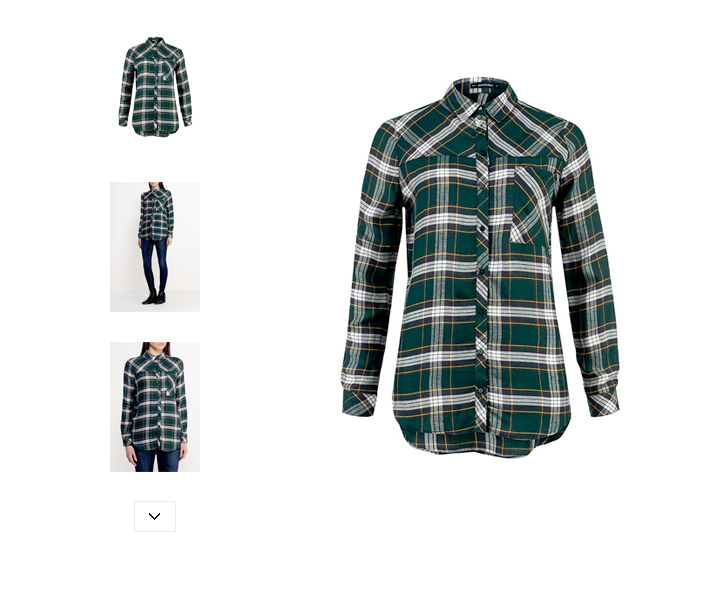
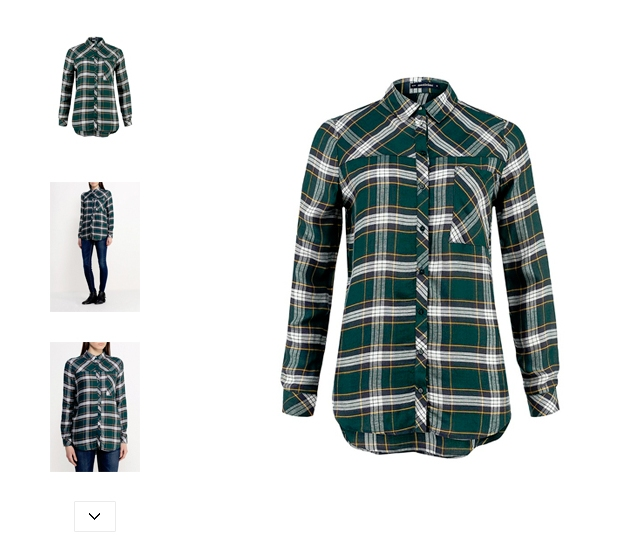
5

Changed region(s): [[0.4176, 0.1223, 0.8948, 0.8255], [0.0597, 0.3058, 0.2684, 0.8561], [0.0895, 0.0612, 0.2684, 0.2446]]

diff --git a/less/main.less b/less/main.less
@@ -17,20 +17,17 @@ body {
 
 @import "blocks/layout";
 
-.wrapper {
-  background: #ffffff;
-
-}
-
 .carousel {
-  width: 749px;
-  background: url(..//images/image1_01.jpg);
+  width: 50%;
+  height: auto;
+  background: url(..//images/image1_01.jpg) no-repeat;
 
 }
 
 .product {
   display: flex;
   flex-direction: row;
+  width: 100%;
 
 }
 
@@ -62,7 +59,7 @@ body {
 .description {
   // height: 455px;
   margin-top: 78px;
-  width: 500px;
+  width: 50%;
   display: flex;
   flex-direction: column;
 
@@ -96,6 +93,7 @@ nav {
   justify-content: space-between;
   width: 339px;
   margin: 0;
+  // margin-bottom: 50px;
 }
 
 .prices {
@@ -142,8 +140,9 @@ nav {
   font-size: 13px;
   flex-direction: column;
   align-items: flex-start;
-  width: 317px;
+  width: 339px;
   margin-top: 20px;
+  box-sizing: border-box;
 
   .stock {
     display: flex;
@@ -278,6 +277,14 @@ nav {
   font-size: 13px;
   color: #9a9b9b;
   padding-top: 8.5px;
+}
+
+.collapse {
+  display: none;
+}
+
+.collapse-content {
+  display: none;
 }
 
 
@@ -450,5 +457,113 @@ nav {
     background: url(..//images/collapse_arrow.png) no-repeat;
     width: 12px;
     height: 8px;
+  }
+}
+
+@media screen and(max-width: 1000px) and (min-width: 768px) {
+ 
+  .carousel {
+    background: url(..//images/carousel_1000.jpg) no-repeat;
+  }
+
+  .description {
+    width: 339px;
+  }
+
+  .buttons {
+    width: 339px;
+  }
+
+  .about {
+    width: 430px;
+  }
+}
+
+@media screen and(max-width: 768px) and (min-width: 320px) {
+
+  .carousel {
+    background: url(..//images/carousel_768.jpg) no-repeat;
+  } 
+
+  .description {
+    width: 37%;
+    margin-top: 30px;
+  }
+
+  nav {
+    display: flex;
+    flex-direction: row;
+    justify-content: space-between;
+    width: 100%;
+    flex-wrap: wrap;
+  }
+
+  .nav-link {
+    margin-right: 10px;
+  }
+
+  .nav-link-arrow {
+    margin-right: 10px;
+  }
+
+  .product_name {
+    margin-top: 25px;
+  }
+
+  .similar {
+    width: 100%;
+    flex-wrap: wrap;
+  }
+
+  .similar_products {
+    margin-left: 0;
+    margin-bottom: 15px;
+    
+  }
+
+  .prices {
+    flex-wrap: wrap;
+    width: 100%;
+    justify-content: start;
+  }
+
+  .price_with_promocode {
+    margin-left: 0;
+    margin-top: 10px;
+  }
+
+  .current_price {
+    margin-right: 150px;
+  }
+
+  .promocode {
+    margin-left: 5px;
+    margin-top: 10px;
+  }
+
+  .box {
+    width: 100%;
+    box-sizing: border-box;
+  }
+
+  .buttons {
+    margin-top: 30px;
+  }
+  .share {
+    display: none;
+  }
+
+  .about {
+    width: 100%;
+    margin-top: 30px;
+
+  }
+
+  .social_networks {
+    margin-top: 30px;
+  }
+
+  .sprite.fb_share {
+    margin-left: 0;
   }
 }

diff --git a/index.html b/index.html
@@ -20,7 +20,7 @@
         <a href="" class="nav-link-arrow"><img src="images/gray_arrow.png"></a>
         <a href="" class="nav-link">Женщинам</a>
         <a href="" class="nav-link-arrow"><img src="images/gray_arrow.png"></a>
-        <a href="" class="nav-link">...</a>
+        <a href="" class="nav-link">Обувь</a>
         <a href="" class="nav-link-arrow"><img src="images/gray_arrow.png"></a>
         <a href="" class="nav-link">Кроссовки</a>
       </nav>
